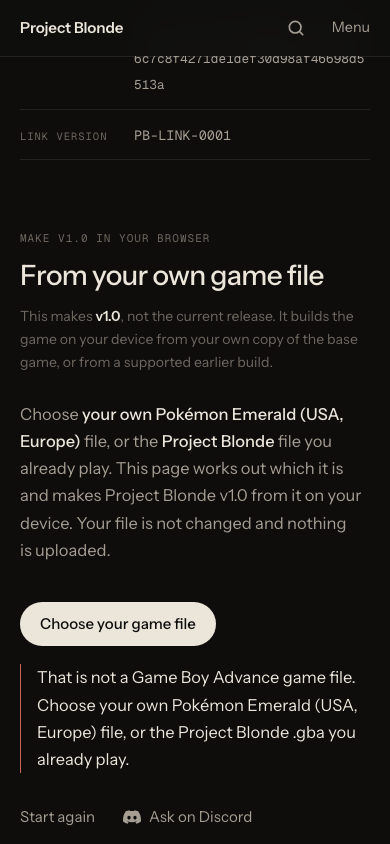
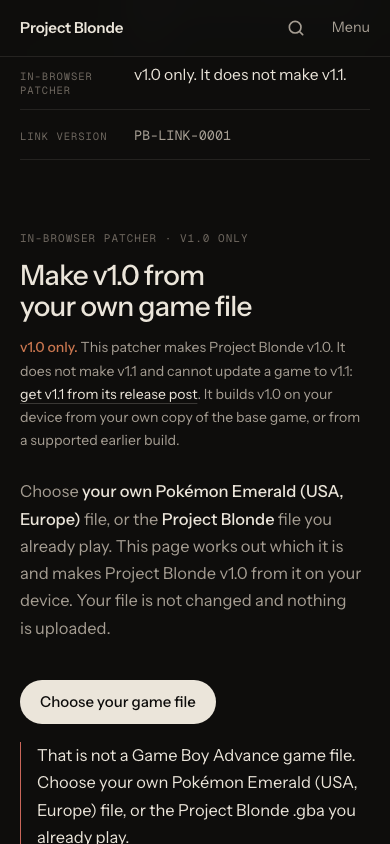
v1.1 final checks: patcher labelled v1.0 only; portrait counts explained (42 of 49 changed, 7 pixel-identical)

diff --git a/site/assets/app.css b/site/assets/app.css
@@ -611,7 +611,7 @@ code{font:400 .86em var(--mono);color:var(--ink-2);word-break:break-all}
 .upgrade{margin:var(--s6) 0;padding:28px;border-radius:12px;background:var(--surface);box-shadow:0 0 0 1px var(--hair) inset;scroll-margin-top:calc(var(--head) + 16px)}
 .upgrade h2,.upgrade h3{margin:12px 0 10px}.upgrade h3{font-size:1.4rem}.upgrade .lead,.upgrade .quick{max-width:72ch}.upgrade .quick b{color:var(--ink);font-weight:500}
 .upgrade .label.pick{margin-top:30px}.upg>div{max-width:none}.upg .quick{margin-top:0;border-top:0}.upg .notice{max-width:72ch}.upgrade>.bullets{margin-top:22px}.upgrade>.bullets b{color:var(--ink);font-weight:500}
-.play.prev #get .notice.wide{margin:14px 0 26px}.play.prev .relgrid .actions{margin-top:18px}
+.play.prev #get .notice.wide{margin:14px 0 26px}.notice.only{color:var(--ink-2)}.notice.only b{color:var(--accent);font-weight:500}.notice.only a{color:var(--ink)}.play.prev .relgrid .actions{margin-top:18px}
 @media (max-width:700px){
   .history a{grid-template-columns:auto 1fr auto}.history a>span:not(.m){grid-column:1/-1;grid-row:2}
   .upgrade{padding:20px 16px}

diff --git a/site/assets/whatsnew.css b/site/assets/whatsnew.css
@@ -7,6 +7,7 @@
 .wn-toc a:hover{color:var(--ink)}.wn-toc b{font-weight:500;color:var(--ink)}
 .wn-block{margin-top:var(--s6);scroll-margin-top:calc(var(--head) + 16px)}
 .wn-head{display:flex;flex-wrap:wrap;align-items:baseline;gap:6px 20px;margin-bottom:18px}.wn-head h3{margin:0;font-size:1.3rem}.wn-head .seg{margin-left:auto}
+.wn-note{margin:-6px 0 18px;max-width:76ch;font-size:.92rem;line-height:1.55;color:var(--ink-2)}
 .wn-grid{display:grid;gap:12px;margin:0;padding:0;list-style:none}
 .wn-grid.ow{grid-template-columns:repeat(auto-fill,minmax(252px,1fr))}.wn-grid.fa{grid-template-columns:repeat(auto-fill,minmax(min(100%,318px),1fr))}
 .wn-grid li{display:grid;align-content:start;gap:4px;padding:12px;border-radius:10px;background:var(--surface);box-shadow:0 0 0 1px var(--hair) inset;min-width:0}

diff --git a/tools/build.py b/tools/build.py
@@ -1044,10 +1044,11 @@ def build_previous(r, cur):
     """A previous public release, kept in the version history with everything it was released with."""
     state, pv = release_state(r), esc(r["public_version"])
     rows = [("Version", f'{pv} <span class="muted">· build {esc(r["internal_build"])}</span>'), ("Status", f'Previous release · replaced by {esc(cur["public_version"])}'), ("Released", esc(r["date"])),
-            ("File", f'{esc(r["file"]["type"])} · {esc(r["file"]["size"])}'), ("SHA-256", f'<code class="sum">{esc(r["sha256"])}</code>'), ("Link version", f'<code>{esc(r["link_protocol"])}</code>')]
+            ("File", f'{esc(r["file"]["type"])} · {esc(r["file"]["size"])}'), ("SHA-256", f'<code class="sum">{esc(r["sha256"])}</code>')] + ([("In-browser patcher", f'{pv} only. It does not make {esc(cur["public_version"])}.')] if state == "patcher" else []) + [("Link version", f'<code>{esc(r["link_protocol"])}</code>')]
     post = (f'<p class="lead">The original {pv} download post is still on the Project Blonde Discord.</p><div class="actions">{release_post(r, "btn ghost dcbtn", pv + " download post", r["discord_post"])}</div>' if r.get("discord_post") else "")
-    make = (f'<section id="get"><p class="label">Make {pv} in your browser</p><h2>From your own game file</h2>'
-            f'<p class="notice wide">This makes <b>{pv}</b>, not the current release. It builds the game on your device from your own copy of the base game, or from a supported earlier build.</p><div class="getbody">{patcher_html(r)}</div></section>' if state == "patcher" else "")
+    make = (f'<section id="get"><p class="label">In-browser patcher · {pv} only</p><h2>Make {pv} from your own game file</h2>'
+            f'<p class="notice wide only"><b>{pv} only.</b> This patcher makes Project Blonde {pv}. It does not make {esc(cur["public_version"])} and cannot update a game to {esc(cur["public_version"])}: '
+            f'<a href="{u("/play/")}#get">get {esc(cur["public_version"])} from its release post</a>. It builds {pv} on your device from your own copy of the base game, or from a supported earlier build.</p><div class="getbody">{patcher_html(r)}</div></section>' if state == "patcher" else "")
     fixed = "".join(f"<li><b>{esc(a)}</b> — {b}</li>" for a, b in RELEASES["fixed"])
     body = head("Version history", f"Project Blonde {r['public_version']}", f'{r["summary"]} Released on {r["date"]}. The current release is {cur["public_version"]}.',
                 f'<div class="actions"><a class="btn" href="{u("/play/")}#get">Get {esc(cur["public_version"])} instead{ARROW}</a><a class="link" href="{u("/play/")}#history">All versions{ARROW}</a></div>') + f"""
@@ -1077,6 +1078,10 @@ def build_whatsnew(rel, primary):
                               f'<span class="m">{esc(who(c))}</span>{"<p>" + esc(", ".join(c["names"])) + "</p>" if c["names"] else ""}</li>' for c in by(k))
     seg = "".join(f'<button type="button" data-wn-face="{i}" aria-pressed="{"true" if i == 0 else "false"}">{n}</button>' for i, n in enumerate(["Front", "Left", "Right", "Back"]))
     n = G["counts"]
+    idn = n["identical"]["portrait"]
+    assert n["assignments"]["portrait"] + idn["assignments"] == n["release_assignments"]["portrait"] and all(n["assignments"][k] == n["release_assignments"][k] for k in ("overworld", "battle"))
+    pnote = (f'<p class="wn-note">The release contains {n["release_assignments"]["portrait"]} portrait assignments. {n["assignments"]["portrait"]} of them look different in {pv} and are shown here, grouped into {n["portrait"]} comparisons '
+             f'because several characters share a portrait. The other {idn["assignments"]} ({esc(", ".join(idn["names"]))}) are pixel-identical in {old} and {pv}, so there is nothing to compare.</p>')
     body = f"""
 <div class="wrap play wn" data-release="{pv}" style="--ow:url('{u(art + O["file"])}');--oh:{O["h"]};--fa:url('{u(art + F["file"])}');--fw:{F["w"]};--fh:{F["h"]}">
  <link rel="stylesheet" href="{u("/assets/whatsnew.css")}">
@@ -1087,14 +1092,14 @@ def build_whatsnew(rel, primary):
   <figure class="titleart"><img class="px" src="{u("/assets/game/title/title-" + rel["public_version"] + ".png")}" width="240" height="160" alt="The Project Blonde title screen: Gold and Wigglytuff on the road, with {pv} under PRESS START">
    <figcaption>The title screen now shows {pv} beneath PRESS START. The Gold and Wigglytuff artwork and its animation are the same as in {old}.</figcaption></figure></header>
  <section id="changes" class="entry-cols"><div><p class="label">Changelog</p><h2>Changes since {old}</h2><ul class="plain bullets">{"".join(f"<li>{esc(x)}</li>" for x in rel["changelog"])}</ul></div>
-  <div><p class="label">On this page</p><nav class="wn-toc"><a href="#overworld"><b>Overworld sprites</b><span class="m">{n["overworld"]} comparisons</span></a><a href="#portraits"><b>Dialogue portraits</b><span class="m">{n["portrait"]} comparisons</span></a>
+  <div><p class="label">On this page</p><nav class="wn-toc"><a href="#overworld"><b>Overworld sprites</b><span class="m">{n["overworld"]} comparisons</span></a><a href="#portraits"><b>Dialogue portraits</b><span class="m">{n["assignments"]["portrait"]} of {n["release_assignments"]["portrait"]} changed</span></a>
    <a href="#battle"><b>Battle artwork</b><span class="m">Lass · Firebreather</span></a><a href="#alola"><b>Alola</b><span class="m">Palm trees</span></a><a href="#update-{pv}"><b>Updating from {old}</b><span class="m">Delta · mGBA</span></a></nav></div></section>
  <section id="gallery"><p class="label">Before and after</p><h2>Characters, {old} and {pv}</h2>
   <p class="lead">In every pair, {old} is on the left and {pv} is on the right. Each picture is drawn at a whole-number scale of the game’s own pixels.</p>
   <div id="overworld" class="wn-block"><div class="wn-head"><h3>Overworld sprites</h3><p class="m">{n["overworld"]} comparisons · {n["assignments"]["overworld"]} characters</p><div class="seg" role="group" aria-label="Facing" data-wn-seg>{seg}</div></div>
    <ul class="wn-grid ow" data-wn-ow style="--f:0">{ow}</ul></div>
-  <div id="portraits" class="wn-block"><div class="wn-head"><h3>Dialogue portraits</h3><p class="m">{n["portrait"]} comparisons · {n["assignments"]["portrait"]} characters</p></div>
-   <ul class="wn-grid fa">{faces("portrait")}</ul></div>
+  <div id="portraits" class="wn-block"><div class="wn-head"><h3>Dialogue portraits</h3><p class="m">{n["portrait"]} comparisons · {n["assignments"]["portrait"]} of {n["release_assignments"]["portrait"]} assignments</p></div>
+   {pnote}<ul class="wn-grid fa">{faces("portrait")}</ul></div>
   <div id="battle" class="wn-block"><div class="wn-head"><h3>Battle artwork</h3><p class="m">Lass · Firebreather</p></div>
    <ul class="wn-grid fa">{faces("battle")}</ul></div>
  </section>
@@ -1200,7 +1205,7 @@ def build_play():
         fixed = "".join(f"<li><b>{esc(a)}</b> — {b}</li>" for a, b in RELEASES["fixed"])
         whats = (f'<div><p class="label">This version</p><h2>What this build is</h2><ul class="plain bullets">{notes}</ul></div>'
                  f'<div><p class="label">Fixed since earlier builds</p><ul class="plain bullets">{fixed}</ul><p class="label lbl2">Known quirks in this version</p><ul class="plain bullets">{known}</ul></div>')
-    hist = "".join(f'<a href="{u(r["page"])}"><b>{esc(r["public_version"])}</b><span class="m{" ok" if r is rel else ""}">{"Current" if r is rel else "Previous"} · {esc(r["date"])}</span><span>{esc(r["summary"])}</span>{ARROW}</a>'
+    hist = "".join(f'<a href="{u(r["page"])}"><b>{esc(r["public_version"])}</b><span class="m{" ok" if r is rel else ""}">{"Current" if r is rel else "Previous"} · {esc(r["date"])}</span><span>{esc(r["summary"])}{" The in-browser patcher on its page makes " + esc(r["public_version"]) + " only." if r is not rel and r.get("method") == "patcher" else ""}</span>{ARROW}</a>'
                    for r in RELEASES["releases"] if r["status"] == "released" and r.get("page"))
     history = f'<section id="history"><p class="label">Version history</p><h2>Every public release</h2><div class="history">{hist}</div></section>' if hist else ""
     body = f"""

diff --git a/tools/qa_play.py b/tools/qa_play.py
@@ -163,6 +163,15 @@ def run(c, mobile):
                and c.js("document.querySelector('.phead .actions a.btn').getAttribute('href')").endswith("/play/#get") and REL["public_version"] in txt(".phead .actions a.btn"))
             ok(f"[{tag}] {r['public_version']}: its original download post and its notes are still there", c.js("(a=>a&&a.href)(document.querySelector('#release a[data-release-post]'))") == r.get("discord_post") and all(a in txt("#notes") for a, _ in REL_ALL["fixed"]))
             ok(f"[{tag}] {r['public_version']}: the in-browser patcher is still offered, for that version", r.get("method") != "patcher" or c.js("document.querySelectorAll('#get [data-patcher] [data-mk-file]').length") == 1 and r["public_version"] in txt("#get .lead"))
+            if r.get("method") == "patcher":
+                only, cur = r["public_version"] + " only", REL["public_version"]
+                ok(f"[{tag}] {r['public_version']}: the patcher is labelled {only} in its heading, its notice and the release record, and says it does not make {cur}", only in txt("#get > .label") and txt("#get .notice.only b") == only + "." and f"does not make {cur}" in txt("#get .notice.only")
+                   and only in txt("#release dl") and c.js("document.querySelector('#get .notice.only a').getAttribute('href')").endswith("/play/#get") and c.js(SHOWN + "('#get .notice.only')"))
+                made = c.js("[...document.querySelectorAll('#get [data-patcher] h3, #get [data-patcher] .lead, #get h2')].map(e=>e.textContent).join(' | ')")
+                ok(f"[{tag}] {r['public_version']}: nothing in the patcher says it makes {cur}", f"Blonde {cur}" not in made and f"Make {cur}" not in made and f"makes {cur}" not in made.replace("does not make", ""), made[:200])
+                go(c, "/play/")
+                ok(f"[{tag}] Download & Play: no patcher on the {cur} page, and the history row says the patcher is {only}", c.js("document.querySelectorAll('[data-patcher]').length") == 0 and only in c.js("[...document.querySelectorAll('#history .history a')].map(a=>a.textContent).join(' | ')"))
+                go(c, r["page"])
             ok(f"[{tag}] {r['public_version']}: no sideways scroll", c.js("document.documentElement.scrollWidth <= window.innerWidth"))
 
     # ---- keyboard
@@ -213,6 +222,9 @@ def whatsnew(c, tag):
     n = c.js("[document.querySelectorAll('#overworld li').length,document.querySelectorAll('#portraits li').length,document.querySelectorAll('#battle li').length]")
     ok(f"[{tag}] gallery: {G['counts']['overworld']} overworld, {G['counts']['portrait']} portrait and {G['counts']['battle']} battle comparisons, each a before and an after", n == [G["counts"][k] for k in ("overworld", "portrait", "battle")]
        and c.js("[...document.querySelectorAll('.wn-grid li')].every(li=>li.querySelectorAll('.wn-s,.wn-f').length===2)"), n)
+    N = G["counts"]
+    ok(f"[{tag}] gallery: portraits are explained as {N['assignments']['portrait']} changed of {N['release_assignments']['portrait']} assignments, {N['identical']['portrait']['assignments']} pixel-identical", (lambda t: f"{N['release_assignments']['portrait']} portrait assignments" in t and f"{N['assignments']['portrait']} of them" in t
+       and f"other {N['identical']['portrait']['assignments']}" in t and "pixel-identical" in t and all(x in t for x in N["identical"]["portrait"]["names"]))(txt("#portraits .wn-note")) and f"{N['assignments']['portrait']} of {N['release_assignments']['portrait']} assignments" in txt("#portraits .wn-head") and c.js(SHOWN + "('#portraits .wn-note')"), txt("#portraits .wn-note"))
     ok(f"[{tag}] gallery: titles and atlas cells match the generated data", c.js("[...document.querySelectorAll('.wn-grid li')].map(li=>li.querySelector('b').textContent)") == [x["title"] for k in ("overworld", "portrait", "battle") for x in G["comparisons"] if x["kind"] == k]
        and c.js("[...document.querySelectorAll('#overworld li')].map(li=>[...li.querySelectorAll('.wn-s')].map(e=>+e.style.getPropertyValue('--r')))") == [[x["before"], x["after"]] for x in G["comparisons"] if x["kind"] == "overworld"])
     atl = c.js("""Promise.all(['--ow','--fa'].map(v=>new Promise(r=>{const m=/url\\(['"]?(.*?)['"]?\\)/.exec(getComputedStyle(document.querySelector('.wn')).getPropertyValue(v));const i=new Image();i.onload=()=>r([i.naturalWidth,i.naturalHeight]);i.onerror=()=>r(null);i.src=m[1]})))""")

diff --git a/tools/whatsnew.py b/tools/whatsnew.py
@@ -161,12 +161,15 @@ def main():
     was.save(out / f'palms-{PUBLIC["before"][0]}.png', optimize=True); now.save(out / f'palms-{PUBLIC["after"][0]}.png', optimize=True)
 
     S = cov["summary"]
+    same = [c for c in cov["comparisons"] if not c["publish"]]      # pairs whose before and after pixels are identical: counted, never shown
+    assert all(c["kind"] == "portrait" and c["before"]["pixelSha256"] == c["after"]["pixelSha256"] for c in same)
     data = {"_about": "Generated by tools/whatsnew.py - do not edit. Before = public v1.0 (v105), after = public v1.1 (v111); every asset byte-checked against both public ROMs.",
             "before": dict(zip(("public", "build", "sha256"), PUBLIC["before"])), "after": dict(zip(("public", "build", "sha256"), PUBLIC["after"])),
             "atlas": {"overworld": {"file": "overworld.png", "w": ow.width, "h": ow.height, "cell": 32, "facings": FACINGS, "sha256": sha((out / "overworld.png").read_bytes())},
                       "faces": {"file": "faces.png", "w": fa.width, "h": fa.height, "cell": 64, "cols": 8, "sha256": sha((out / "faces.png").read_bytes())}},
             "counts": {"overworld": sum(c["kind"] == "overworld" for c in comps), "portrait": sum(c["kind"] == "portrait" for c in comps), "battle": sum(c["kind"] == "battle" for c in comps),
-                       "assignments": {k: sum(c["assignments"] for c in comps if c["kind"] == k) for k in ("overworld", "portrait", "battle")}},
+                       "assignments": {k: sum(c["assignments"] for c in comps if c["kind"] == k) for k in ("overworld", "portrait", "battle")},
+                       "release_assignments": S["byKind"], "identical": {"portrait": {"assignments": sum(len(c["assignmentNumbers"]) for c in same), "names": sorted(n for c in same for n in c["names"])}}},
             "palms": PALMS | {"box": list(PALMS["box"])},
             "verification": {"assets_checked": checked, "decoded_from": DECODED,
                              "public_rom_differences": {s: [[hex(lo + B), hi - lo] for lo, hi in diff[s]] for s in diff}},

diff --git a/DEPLOYMENT-STATUS.md b/DEPLOYMENT-STATUS.md
@@ -1,6 +1,6 @@
 # Deployment status
 
-**v1.1 website update: PREPARED, NOT DEPLOYED (2026-10-10).** Branch `release-v1.1` (one commit on `origin/main` `c7ca264`), built and tested locally; it waits for the owner's approval. The game itself is already public: v1.1 (build v111) was published on Discord on 2026-10-10, and nothing in that release was touched here. To deploy after approval: `git push origin release-v1.1:main`, watch the `Deploy guide to GitHub Pages` run, then `python3 tools/qa_play.py https://areyoublonde.github.io/project-blonde-guide`. Local results: build 1,314 pages (also with `--base /project-blonde-guide`); links 82,619 and assets 39,461, 0 failures; `qa_play.py` 184 of 184; `qa_patcher.py` 49 of 49 (v1.0 patcher on `/play/v1.0/`); `qa_browser.py` 107 of 107, sweep failures 0; `qa_pokedex.py` 136 of 136; `qa_legendaries.py` 144 of 144; `qa_availability.py` 31 of 31; `qa_maps.py` 0 problems against the v111 audit. Not tested: a physical iPhone, Safari, Firefox; the Discord post itself opens only for a signed-in member, so the link was checked for form and against the release record, not by downloading through it.
+**v1.1 website update: PREPARED, NOT DEPLOYED (2026-10-10).** Branch `release-v1.1` (two commits on `origin/main` `c7ca264`), built and tested locally; it waits for the owner's approval. The game itself is already public: v1.1 (build v111) was published on Discord on 2026-10-10, and nothing in that release was touched here. To deploy after approval: `git push origin release-v1.1:main`, watch the `Deploy guide to GitHub Pages` run, then `python3 tools/qa_play.py https://areyoublonde.github.io/project-blonde-guide`. Local results: build 1,314 pages (also with `--base /project-blonde-guide`); links 82,619 and assets 39,461, 0 failures; `qa_play.py` 192 of 192; `qa_patcher.py` 49 of 49 (v1.0 patcher on `/play/v1.0/`); `qa_browser.py` 107 of 107, sweep failures 0; `qa_pokedex.py` 136 of 136; `qa_legendaries.py` 144 of 144; `qa_availability.py` 31 of 31; `qa_maps.py` 0 problems against the v111 audit. Not tested: a physical iPhone, Safari, Firefox; the Discord post itself opens only for a signed-in member, so the link was checked for form and against the release record, not by downloading through it.
 
 **Latest deploy 2026-10-09 (Legendary & Mythical field guide):** commit `e584044`, workflow run 37864751654 (build 1,305 pages; links 0 failures). Verified live in Chrome: `tools/qa_legendaries.py https://areyoublonde.github.io/project-blonde-guide` 144 of 144 on desktop and phone (coverage, classifications, search, filters, spoilers, links, map, layout, no script errors). Evidence: `qa-evidence/legendary-guide/live.json`. Audit: `LEGENDARY-MYTHICAL-COMPLETENESS-AUDIT.md`.
 
